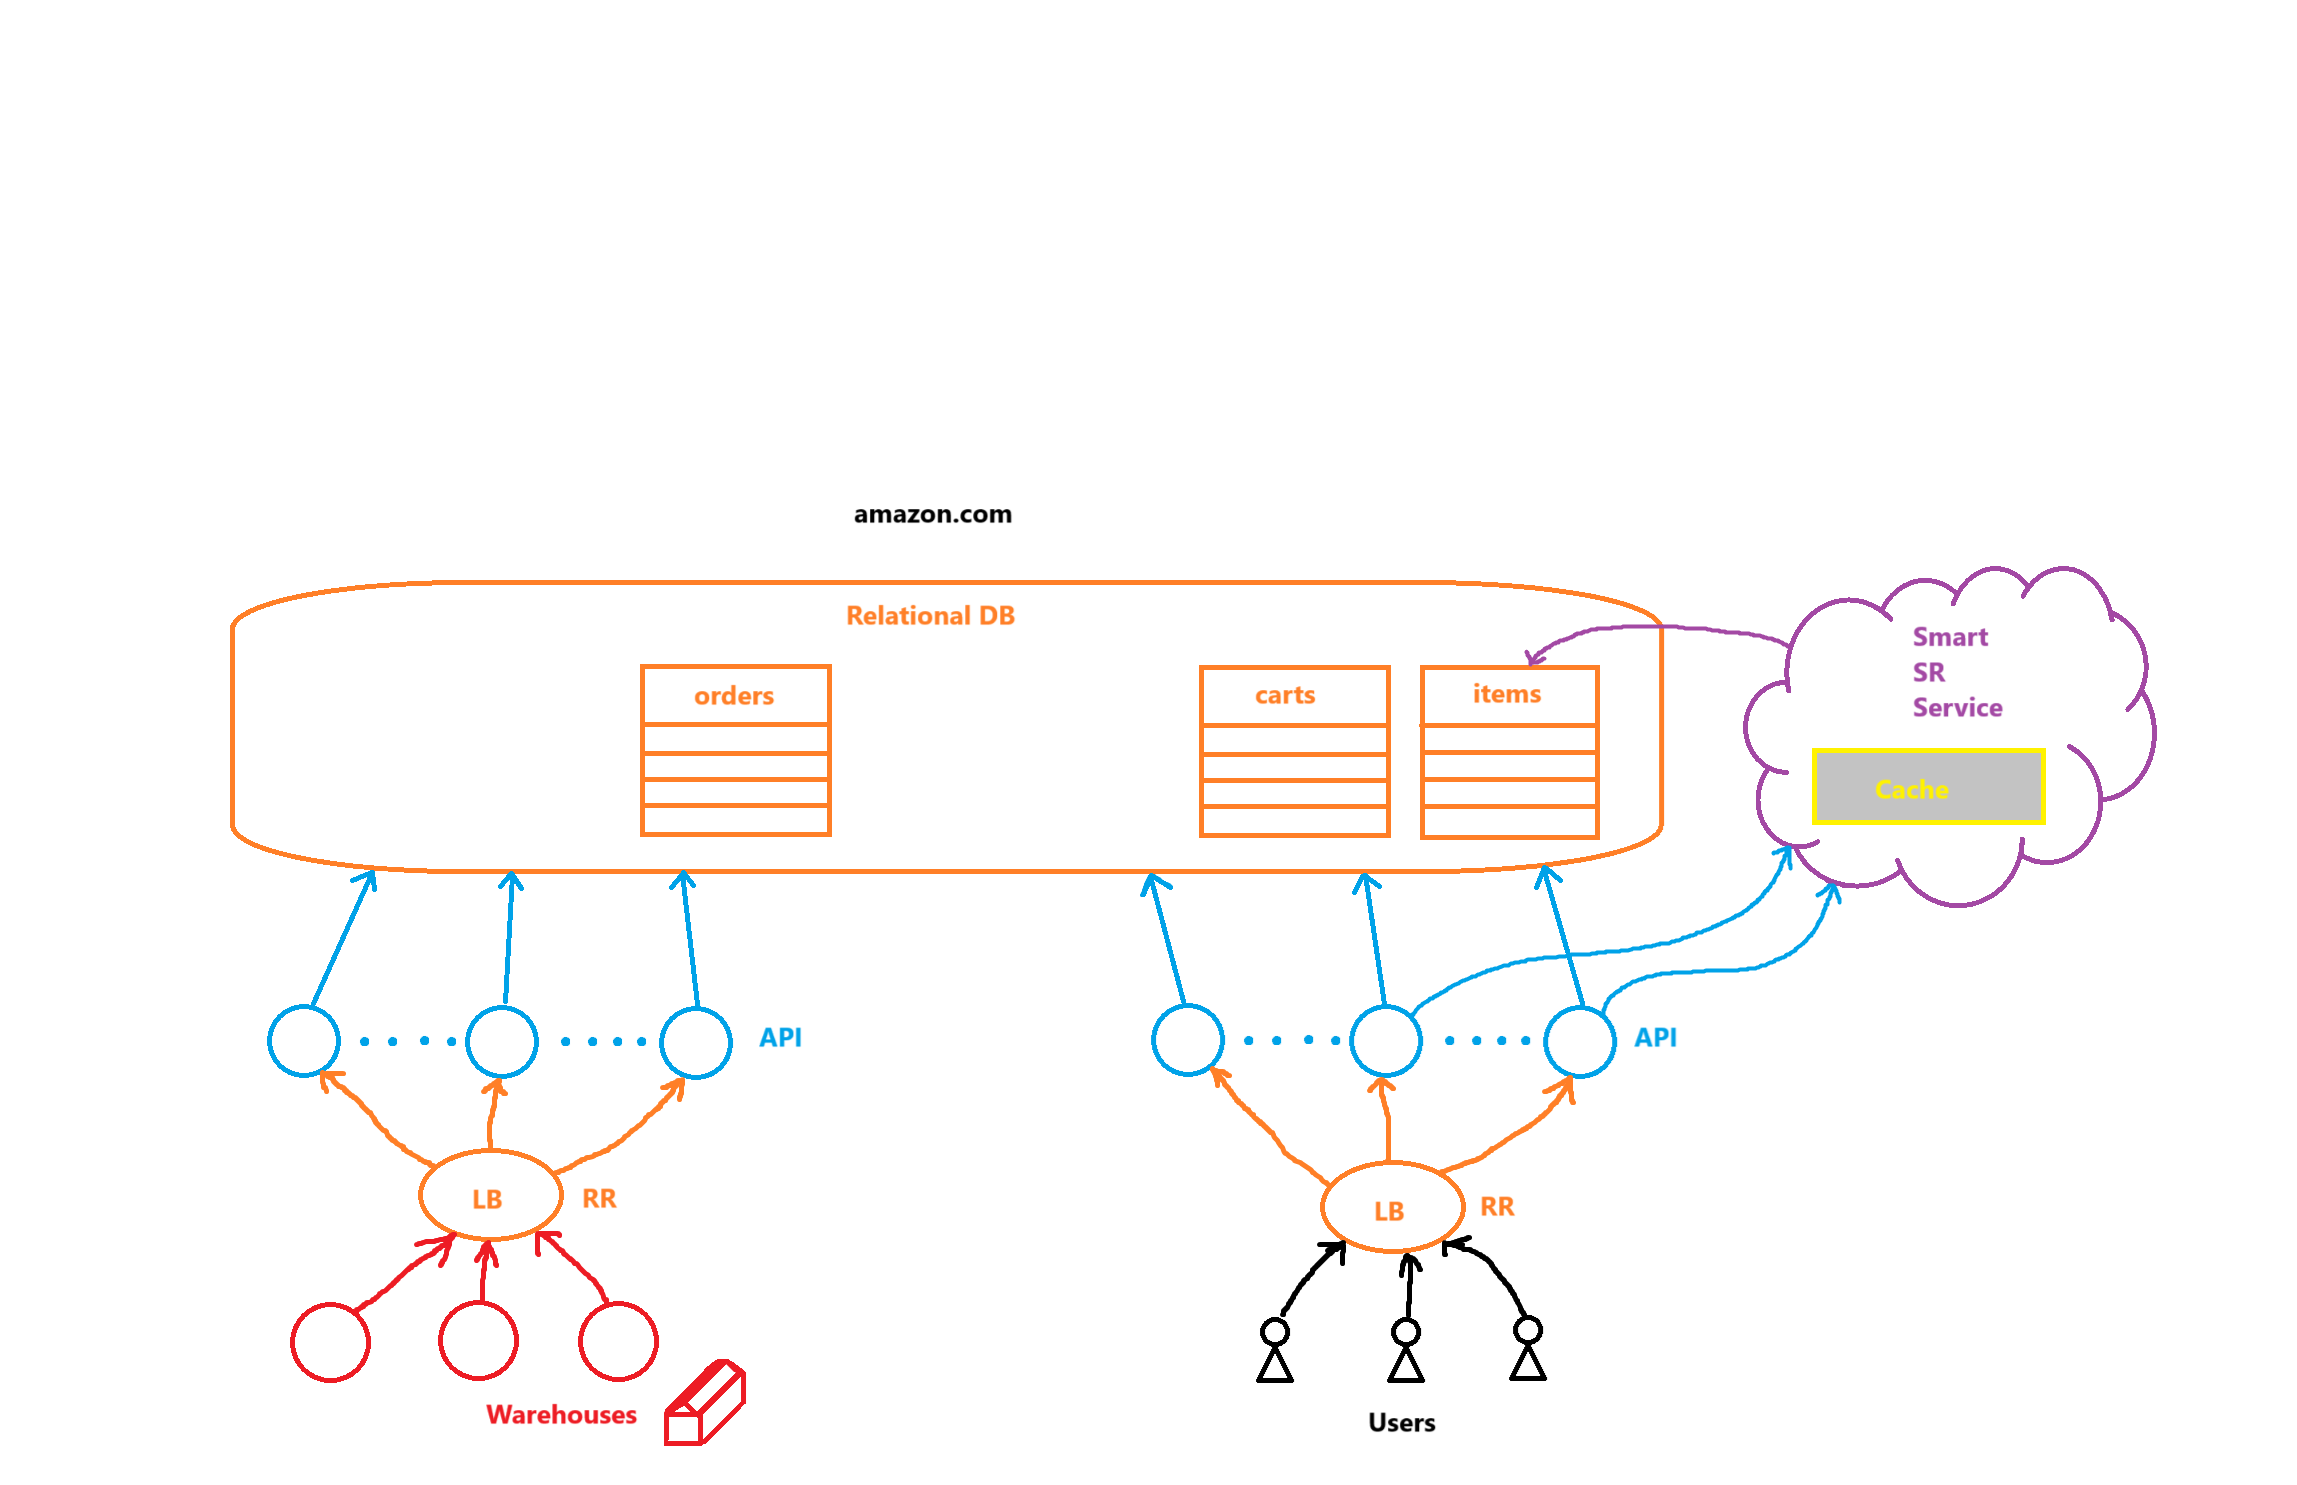
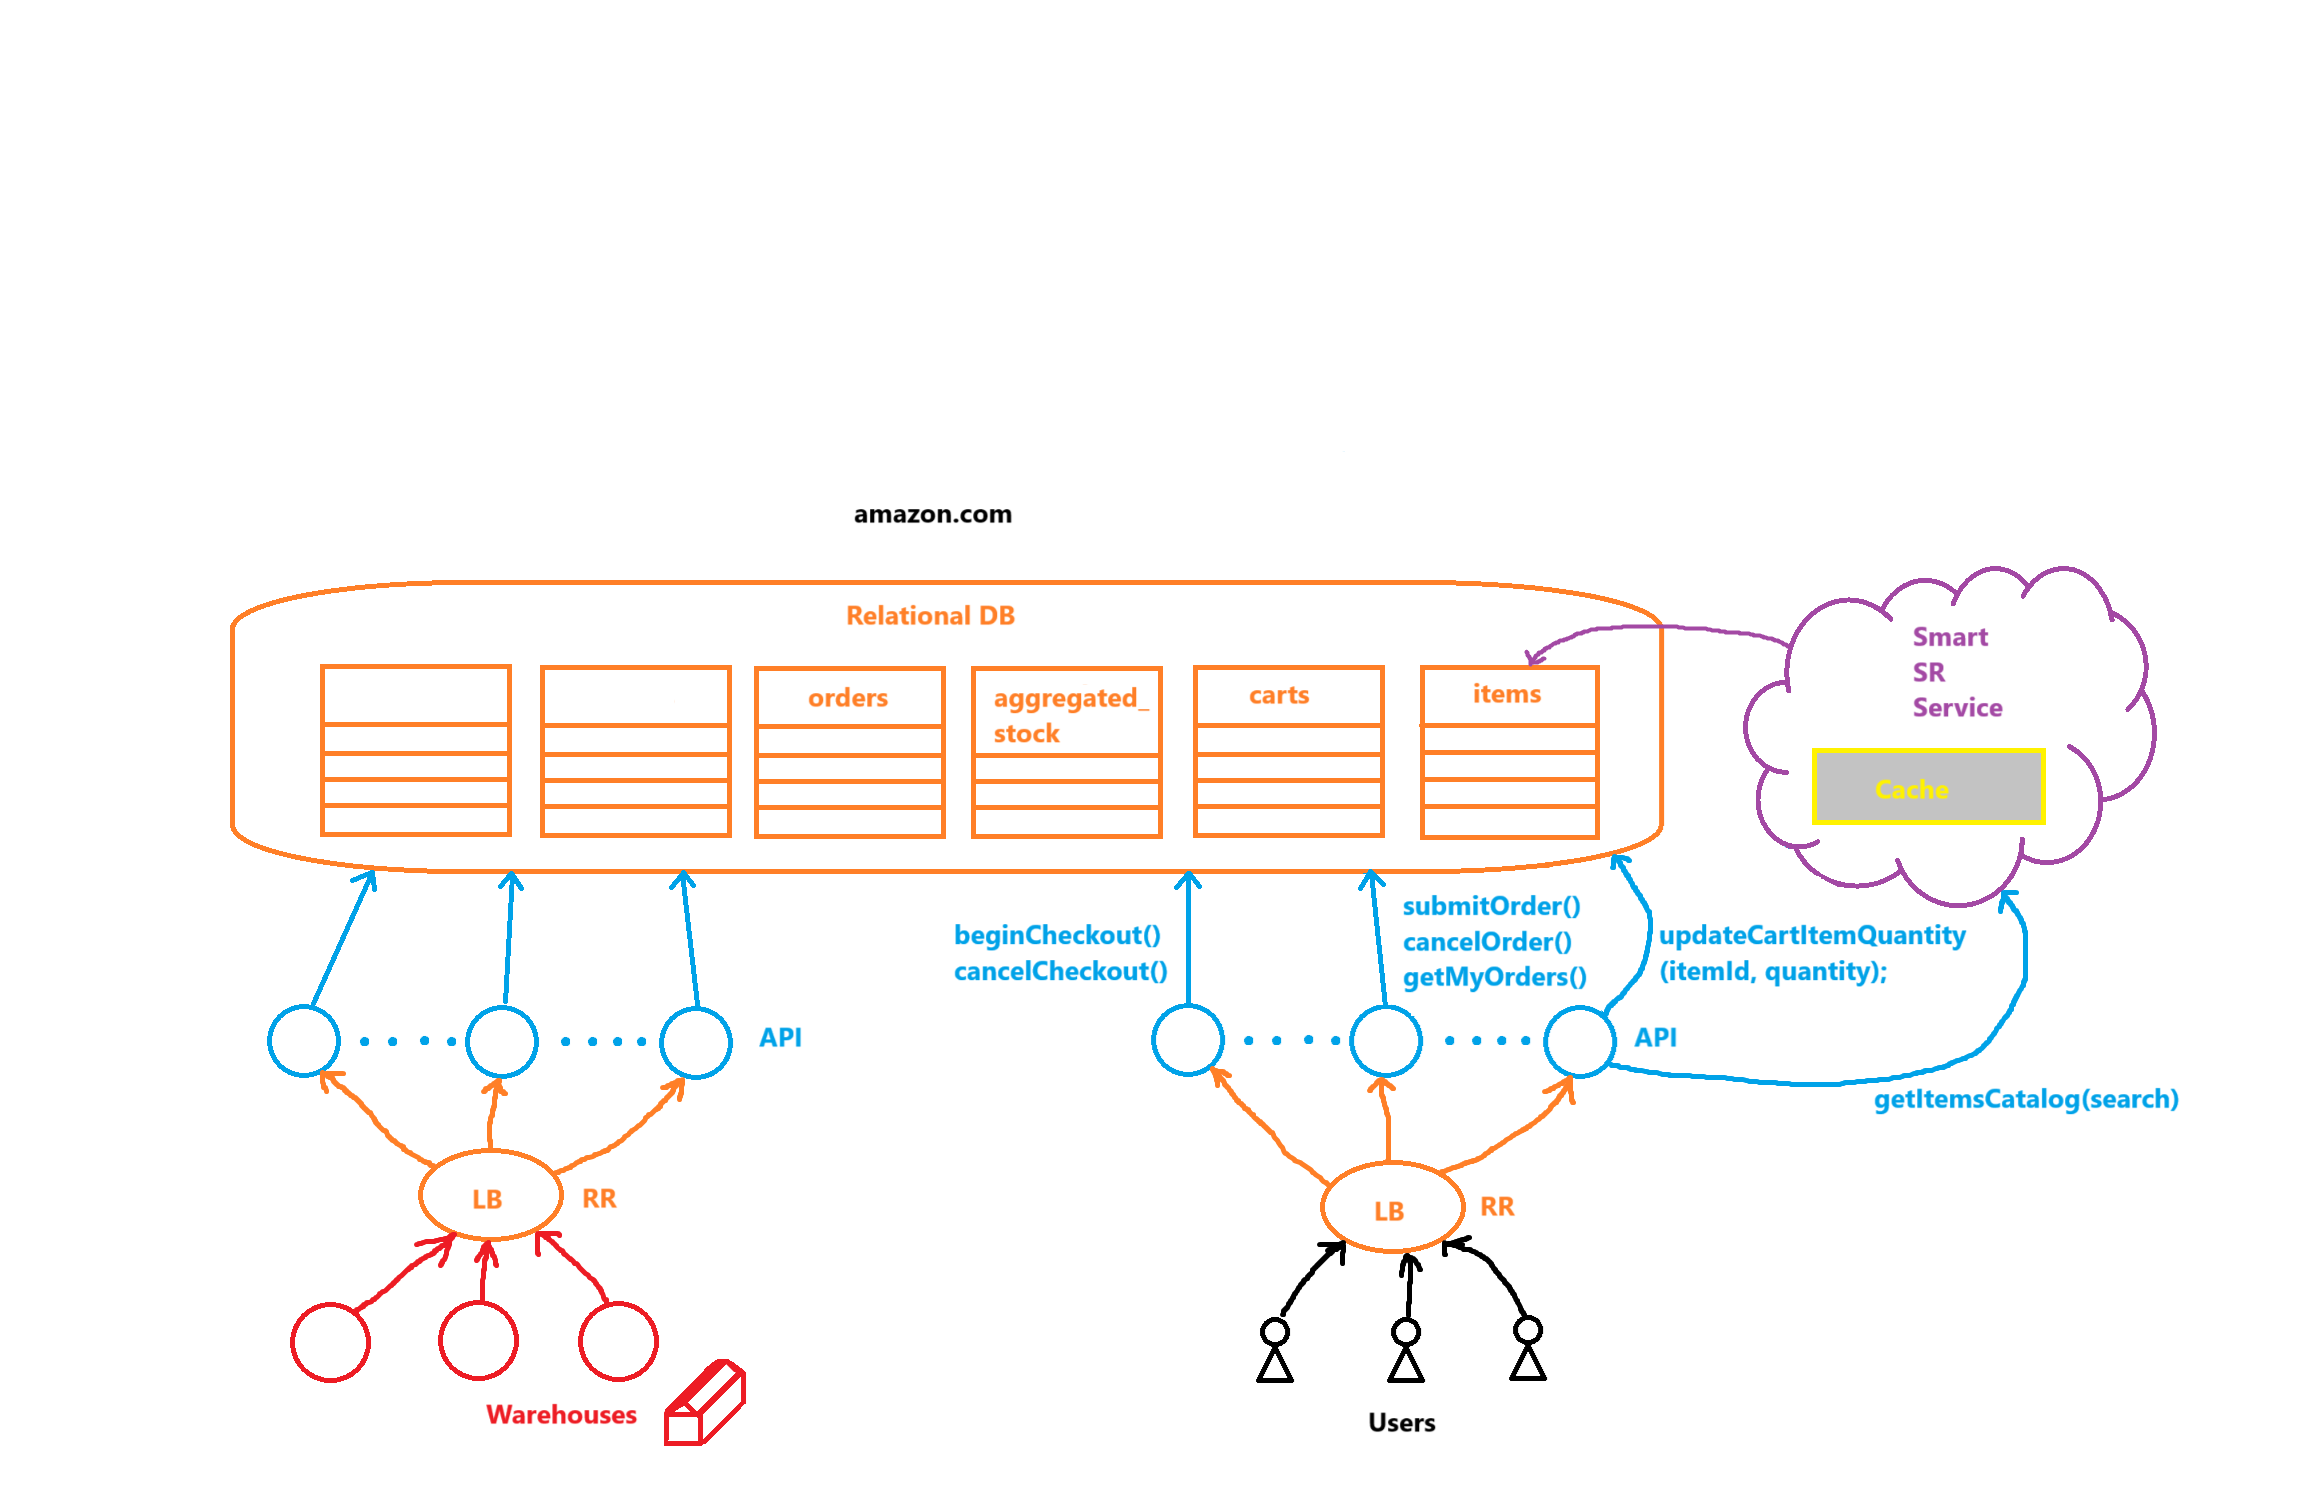
Added more API endpoints and tables for completing the functionality of the system

diff --git a/SystemsExpert/design-amazon.md b/SystemsExpert/design-amazon.md
@@ -85,13 +85,37 @@ This table stores all the orders from Amazon. Each row represents an order.
 CREATE TABLE orders (
   orderId UUID PRIMARY KEY,
   customerId UUID,
-  orderStatus ENUM('', '', '', ...),
+  orderStatus ENUM('submitted', 'processing', 'shipped', 'delivered', 'canceled'),
   items JSON,
   price INT,
   paymentInfo JSON,
   shippingAddress VARCHAR(255),
   timestamp DATETIME,
   other JSON
+);
+```
+The "items" column looks like:
+```JSON
+[
+  {
+    itemId: "aab5d5fd-70c1-11e5-a4fb-b026b977eb28",
+    quantity: 3
+  }, 
+  {
+    itemId: "3cc7f7dc-70c5-11e5-a4fb-b026b977eb28",
+    quantity: 5
+  },
+  ...
+]
+```
+
+### Aggregated Stock
+The table will store the aggregated stock of the items available on Amazon. Each row represents an item. The stock amount for each item is aggregated sum from all Amazon warehouses.
+```SQL
+CREATE TABLE aggregated_stock (
+  itemId UUID PRIMARY KEY,
+  stock INT,
+  FOREIGN KEY (itemId) REFERENCES items(itemId) ON DELETE CASCADE,
 );
 ```
 
@@ -103,6 +127,20 @@ CREATE TABLE carts (
   customerId UUID,
   items JSON,
 );
+```
+The "items" column looks like:
+```JSON
+[
+  {
+    itemId: "aab5d5fd-70c1-11e5-a4fb-b026b977eb28",
+    quantity: 3
+  }, 
+  {
+    itemId: "3cc7f7dc-70c5-11e5-a4fb-b026b977eb28",
+    quantity: 5
+  },
+  ...
+]
 ```
 
 ### Items
@@ -134,5 +172,31 @@ This method will fetch the API endpoint when the users are searching for items. 
 - It also performs lots of logic to get the best items
   - These items will be the ones that fits the search query the most
   - There is probably some machine learning involved
+
+This endpoint will also fetch the stocks of the selected items from the "aggregated_stock" table.
+
+```javascript
+updateCartItemQuantity(itemId, quantity);
+```
+This endpoint is called by users when adding or removing items from the cart. The requests directly write to the "carts" table. Users can only call the endpoint when there is enough stock in the "aggregated_stock" tables
+
+```javascript
+beginCheckout() & cancelCheckout()
+```
+These endpoints are called when the user begins or cancels the checkout process.
+
+The "beginCheckout()" request calls for another read from the "aggregated_stock" table for the items on cart.
+- If some of the items are not in stock anymore, the UI alerts the user
+- If there are enough stock for all the items, the API servers would then write to the "aggregated_stock" table and decrease the requested quantity from the items on the cart.
+
+The "cancelCheckout()" request writes to the "aggregated_stock" table increasing the stock of the items that has been canceled, effectively "unreserving" the items. It also gets triggered after 10 minutes of being in the checkout process
+
+All the writes to the "aggregated_stock" table are ACID transactions (Atomicity, Consistency, Isolation, and Durability). Which means that transactions are happening one by one, and the stock will always be on a correct state. There isn't the case that two users are consuming the same quantity for stock.
+
+```javascript
+submitOrder(), cancelOrder(), & getMyOrders()
+```
+The "submitOrder()" request will go to the API servers and then to the DB. It will then empty the cart of the user from the "carts" table, and go to the "orders" table and write a new order.
+
 
 ![amazon-design](./design-amazon.png)
